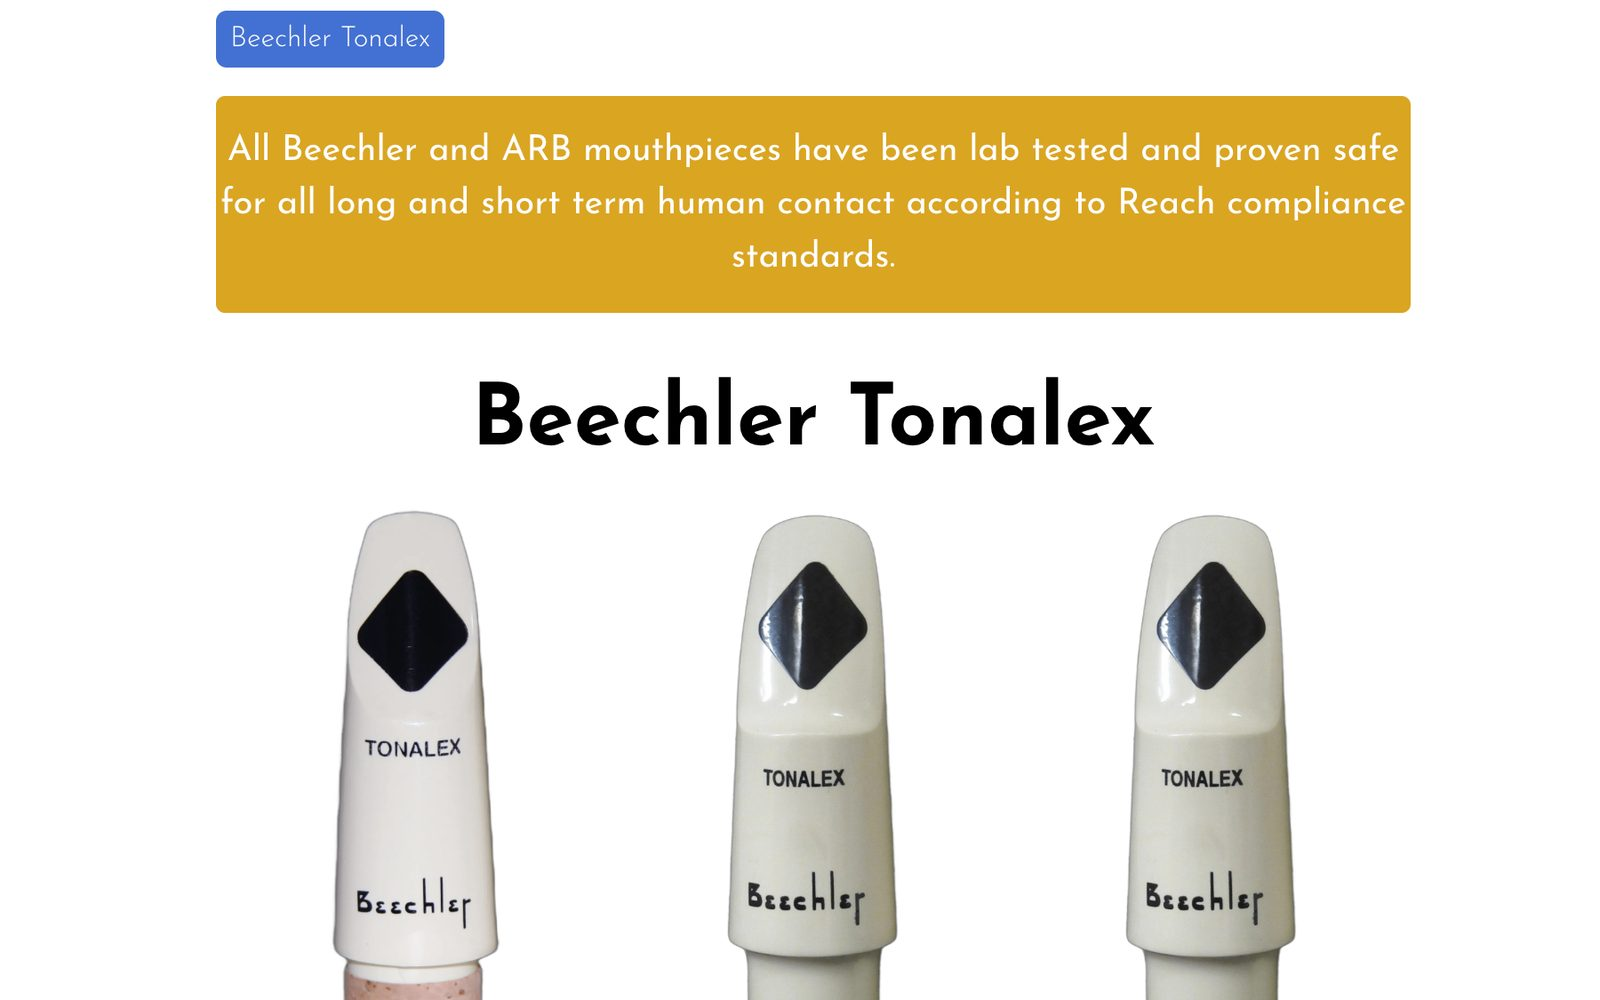
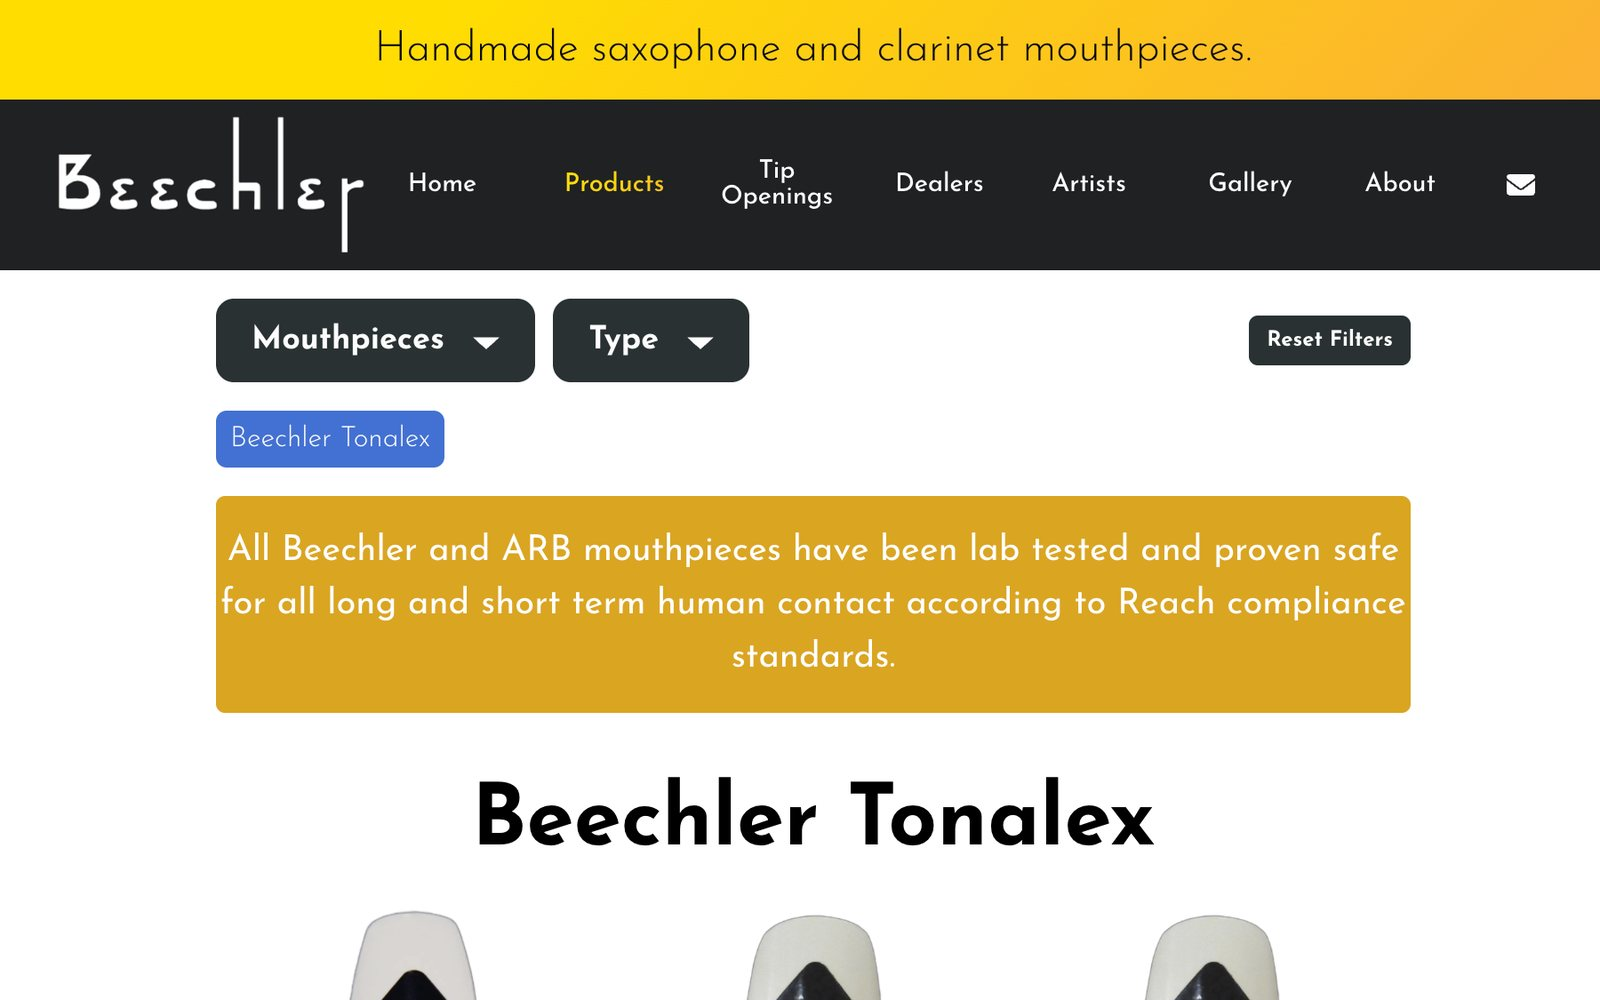
design: full-width case studies with auto-reveal before/after
- Each project stacks text over a full-width comparison (1000px, was 524)
- Slider wipes from old to new on scroll; any drag or key press takes over
- Bigger Before/After tags, one-line caption on what changed, drag hint
- Beechler pair re-cropped from the top so the old header and nav show

Claude-Session: https://claude.ai/code/session_01Cq99TLpQjgxbxcLcGR99ZN

diff --git a/src/components/BeforeAfter.js b/src/components/BeforeAfter.js
@@ -1,15 +1,58 @@
-import { useRef, useState, useCallback } from 'react';
+import { useRef, useState, useCallback, useEffect } from 'react';
+import { gsap } from 'gsap';
+import { ScrollTrigger } from 'gsap/ScrollTrigger';
 import '../styles/BeforeAfter.css';
+
+gsap.registerPlugin(ScrollTrigger);
+
+const REST = 38; // where the handle settles after the reveal (% of width showing "before")
 
 /**
  * Drag-to-compare slider. The "after" image sits underneath; the "before"
- * image is clipped from the right as the handle moves. A visually hidden
- * range input drives it, so it works with keyboard and screen readers.
+ * image is clipped from the right as the handle moves.
+ *
+ * On first scroll into view it wipes from all-before to mostly-after, so the
+ * change is visible without anyone dragging. Any touch stops the wipe.
+ * A visually hidden range input drives it for keyboard and screen readers.
  */
-export const BeforeAfter = ({ before, after, beforeAlt, afterAlt, start = 50 }) => {
-  const [pos, setPos] = useState(start);
+export const BeforeAfter = ({ before, after, beforeAlt, afterAlt }) => {
+  const reduce =
+    typeof window !== 'undefined' &&
+    window.matchMedia?.('(prefers-reduced-motion: reduce)').matches;
+
+  const [pos, setPos] = useState(reduce ? 50 : 100);
   const frameRef = useRef(null);
   const dragging = useRef(false);
+  const tween = useRef(null);
+
+  // the reveal
+  useEffect(() => {
+    if (reduce) return undefined;
+    const el = frameRef.current;
+    const proxy = { v: 100 };
+    tween.current = gsap.to(proxy, {
+      v: REST,
+      duration: 2.2,
+      ease: 'power3.inOut',
+      delay: 0.35,
+      paused: true,
+      onUpdate: () => setPos(proxy.v),
+    });
+    const st = ScrollTrigger.create({
+      trigger: el,
+      start: 'top 70%',
+      once: true,
+      onEnter: () => tween.current?.play(),
+    });
+    return () => {
+      st.kill();
+      tween.current?.kill();
+    };
+  }, [reduce]);
+
+  const stopReveal = () => {
+    if (tween.current?.isActive()) tween.current.kill();
+  };
 
   const moveTo = useCallback((clientX) => {
     const rect = frameRef.current.getBoundingClientRect();
@@ -18,6 +61,7 @@ export const BeforeAfter = ({ before, after, beforeAlt, afterAlt, start = 50 }) 
   }, []);
 
   const onPointerDown = (e) => {
+    stopReveal();
     dragging.current = true;
     e.currentTarget.setPointerCapture(e.pointerId);
     moveTo(e.clientX);
@@ -58,7 +102,10 @@ export const BeforeAfter = ({ before, after, beforeAlt, afterAlt, start = 50 }) 
         min='0'
         max='100'
         value={Math.round(pos)}
-        onChange={(e) => setPos(Number(e.target.value))}
+        onChange={(e) => {
+          stopReveal();
+          setPos(Number(e.target.value));
+        }}
         aria-label={`Compare before and after: ${beforeAlt} versus ${afterAlt}`}
       />
     </div>
@@ -67,7 +114,7 @@ export const BeforeAfter = ({ before, after, beforeAlt, afterAlt, start = 50 }) 
 
 /**
  * Several before/after pairs for one project, switched with small tabs.
- * `pairs` is [{ label, before, after }]. A single pair renders no tabs.
+ * `pairs` is [{ label, caption, before, after }]. A single pair renders no tabs.
  */
 export const BeforeAfterSet = ({ pairs, name }) => {
   const [active, setActive] = useState(0);
@@ -98,6 +145,10 @@ export const BeforeAfterSet = ({ pairs, name }) => {
         beforeAlt={`The ${name} ${pair.label.toLowerCase()} page before the redesign`}
         afterAlt={`The ${name} ${pair.label.toLowerCase()} page after the redesign`}
       />
+      <p className='ba-caption'>
+        {pair.caption}
+        <span className='ba-hint'>Drag to compare</span>
+      </p>
     </div>
   );
 };

diff --git a/src/components/RecentWork.js b/src/components/RecentWork.js
@@ -21,7 +21,14 @@ const projects = [
     img: beechler,
     alt: 'The Beechler website',
     body: 'Beechler has hand-finished saxophone and clarinet mouthpieces in Los Angeles since 1942, sold through dealers in 27 countries. Their catalog deserved better than the site it lived on. I sat down with the owners to work out what players and dealers needed to find, shot new product photography, and built the site in React on a server I set up and hardened myself. More engineering than a catalog needed, and nothing they can edit without me. I\'d build it differently today. It still runs.',
-    compare: [{ label: 'Catalog', before: beechlerBefore, after: beechlerAfter }],
+    compare: [
+      {
+        label: 'Catalog',
+        caption: 'One page per material and a banner, to every mouthpiece filterable by instrument and type, with new photography.',
+        before: beechlerBefore,
+        after: beechlerAfter,
+      },
+    ],
   },
   {
     name: 'Private Affair Band',
@@ -31,8 +38,18 @@ const projects = [
     alt: 'The Private Affair Band website',
     body: 'A Los Angeles R&B and funk band with years of packed dance floors and an old site, timelesspab, that didn\'t show it. I sat down with the band to work out what bookers need to see, wrote the copy, and rebuilt it in WordPress as privateaffairband.com. Inquiries come through a proper contact form, and the band updates their own song list. No developer required.',
     compare: [
-      { label: 'Song list', before: pabSongsBefore, after: pabSongsAfter },
-      { label: 'Booking', before: pabBefore, after: pabAfter },
+      {
+        label: 'Song list',
+        caption: 'One long list in orange type, to 200+ songs grouped by genre. The band edits it themselves in WordPress.',
+        before: pabSongsBefore,
+        after: pabSongsAfter,
+      },
+      {
+        label: 'Booking',
+        caption: 'Name, email, message, to event date, type, guest count, and venue: what a booker needs to quote.',
+        before: pabBefore,
+        after: pabAfter,
+      },
     ],
   },
   {
@@ -55,10 +72,21 @@ export const RecentWork = () => {
 
         <div className='rw-list'>
           {projects.map((p, i) => (
-            <article
-              className={`rw-block reveal${i % 2 === 1 ? ' rw-reverse' : ''}`}
-              key={p.name}
-            >
+            <article className='rw-block reveal' key={p.name}>
+              <div className='rw-body'>
+                <h3 className='rw-name'>{p.name}</h3>
+                <div>
+                  <p className='rw-desc'>{p.body}</p>
+                  <a
+                    className='link-accent'
+                    href={p.href}
+                    target='_blank'
+                    rel='noreferrer'
+                  >
+                    {p.linkText}
+                  </a>
+                </div>
+              </div>
               {p.compare ? (
                 <div className='rw-media rw-media-compare'>
                   <BeforeAfterSet pairs={p.compare} name={p.name} />
@@ -68,18 +96,6 @@ export const RecentWork = () => {
                   <img src={p.img} alt={p.alt} loading='lazy' />
                 </a>
               )}
-              <div className='rw-body'>
-                <h3 className='rw-name'>{p.name}</h3>
-                <p className='rw-desc'>{p.body}</p>
-                <a
-                  className='link-accent'
-                  href={p.href}
-                  target='_blank'
-                  rel='noreferrer'
-                >
-                  {p.linkText}
-                </a>
-              </div>
             </article>
           ))}
         </div>

diff --git a/src/styles/BeforeAfter.css b/src/styles/BeforeAfter.css
@@ -48,8 +48,8 @@
   transform: translate(-50%, -50%);
   display: grid;
   place-items: center;
-  width: 44px;
-  height: 44px;
+  width: 52px;
+  height: 52px;
   background: var(--ink);
   color: var(--bg);
   font-size: 15px;
@@ -59,17 +59,18 @@
 
 .ba-label {
   position: absolute;
-  top: 12px;
-  padding: 4px 8px;
-  font-size: 11px;
-  letter-spacing: 0.14em;
+  bottom: 16px;
+  padding: 7px 12px;
+  font-family: var(--font-display);
+  font-size: clamp(13px, 1.2vw, 16px);
+  letter-spacing: 0.12em;
   text-transform: uppercase;
   background: rgba(33, 28, 22, 0.78);
   color: var(--bg);
   pointer-events: none;
 }
-.ba-label-before { left: 12px; }
-.ba-label-after  { right: 12px; }
+.ba-label-before { left: 16px; }
+.ba-label-after  { right: 16px; }
 
 /* Visually hidden, but focusable and operable */
 .ba-range {
@@ -113,4 +114,25 @@
 .ba-tab:focus-visible {
   outline: 2px solid var(--accent);
   outline-offset: 3px;
+}
+
+.ba-caption {
+  display: flex;
+  justify-content: space-between;
+  gap: 24px;
+  margin: 14px 0 0;
+  font-size: 15px;
+  line-height: 1.5;
+  color: var(--ink-soft);
+}
+.ba-hint {
+  flex: none;
+  font-size: 12px;
+  letter-spacing: 0.1em;
+  text-transform: uppercase;
+  color: var(--ink-soft);
+  opacity: 0.8;
+}
+@media (max-width: 600px) {
+  .ba-caption { flex-direction: column; gap: 6px; }
 }

diff --git a/src/styles/RecentWork.css b/src/styles/RecentWork.css
@@ -18,13 +18,15 @@
 
 .rw-block {
   display: grid;
-  grid-template-columns: 1.25fr 1fr;
-  gap: clamp(28px, 4vw, 56px);
-  align-items: center;
+  grid-template-columns: minmax(0, 1fr);
+  gap: clamp(22px, 3vw, 34px);
 }
 
-.rw-block.rw-reverse .rw-media {
-  order: 2;
+.rw-body {
+  display: grid;
+  grid-template-columns: minmax(0, 1fr) minmax(0, 1.6fr);
+  gap: clamp(20px, 4vw, 56px);
+  align-items: start;
 }
 
 .rw-media {
@@ -52,7 +54,7 @@
 }
 
 .rw-desc {
-  max-width: 52ch;
+  max-width: 60ch;
   margin: 0 0 18px;
   font-size: 17px;
   line-height: 1.6;
@@ -60,14 +62,9 @@
 }
 
 @media (max-width: 820px) {
-  .rw-block,
-  .rw-block.rw-reverse {
+  .rw-body {
     grid-template-columns: 1fr;
-    gap: 20px;
-  }
-
-  .rw-block.rw-reverse .rw-media {
-    order: 0;
+    gap: 10px;
   }
 }
 
